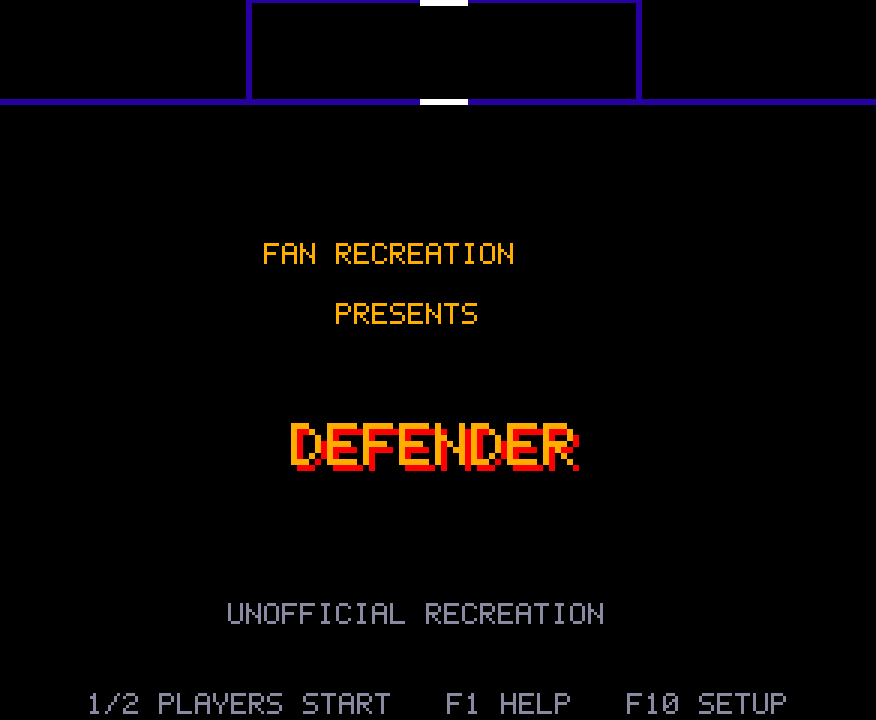
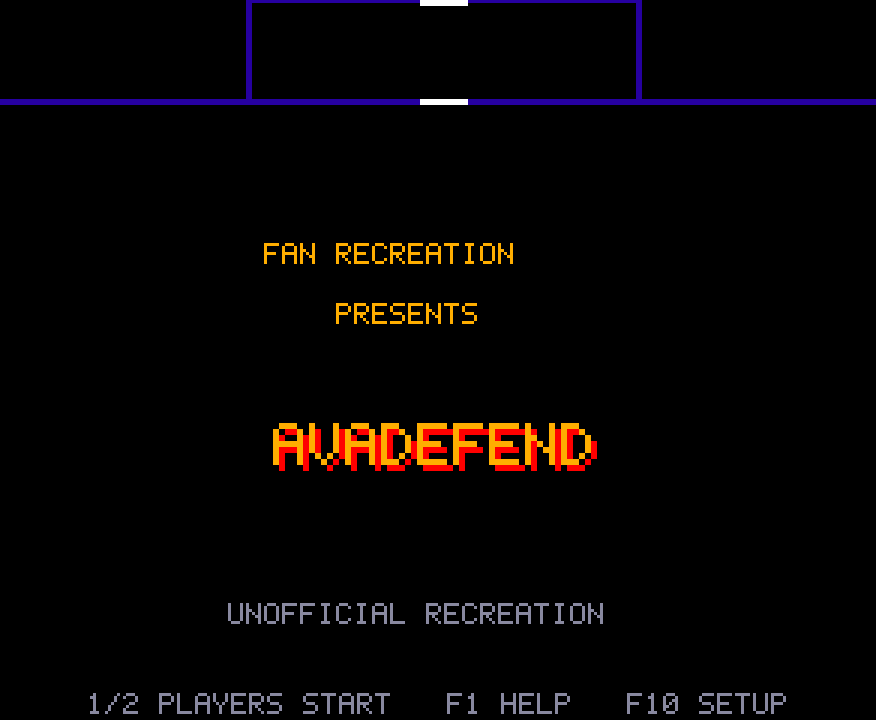
Rename in-game title to AVADEFEND; regenerate screenshots; README heading; record CI self-test results for Windows/macOS/Linux

Changed region(s): [[0.3082, 0.5806, 0.6781, 0.6722]]

diff --git a/src/Defender.Avalonia/Rendering/SoftwareRenderer.cs b/src/Defender.Avalonia/Rendering/SoftwareRenderer.cs
@@ -319,7 +319,7 @@ public sealed class SoftwareRenderer
     private void DrawHallOfFame(FrameSnapshot s)
     {
         uint c1 = s.Mode == GameMode.Modern ? _pal[Pal.White] : _pal[Pal.Laser];   // colour 1 cycles on the arcade
-        DrawSprite(TitleSprite, 96, 56 - 4, 0, _pal[Pal.Yellow]);
+        DrawSprite(TitleSprite, 96, 56 - 4, 0, null, _pal[Pal.Yellow]);   // yellow letters, shadow kept distinct
         Text("HALL OF FAME", 112, 84, c1);
         Text("TODAYS", 68, 104, c1); Text("ALL TIME", 192, 104, c1);
         Text("GREATEST", 60, 114, c1); Text("GREATEST", 190, 114, c1);

diff --git a/src/Defender.Avalonia/Branding.cs b/src/Defender.Avalonia/Branding.cs
@@ -3,7 +3,7 @@ namespace Defender.Avalonia;
 /// <summary>All user-visible naming lives here so it can be replaced. Not an official or endorsed Williams product.</summary>
 public static class Branding
 {
-    public const string Title = "DEFENDER";
-    public const string WindowTitle = "Defender (1981) — unofficial fan recreation";
+    public const string Title = "AVADEFEND";
+    public const string WindowTitle = "AVADefend — unofficial fan recreation of Defender (1981)";
     public const string Disclaimer = "UNOFFICIAL RECREATION";
 }

diff --git a/README.md b/README.md
@@ -1,8 +1,10 @@
-# Defender (1981) — unofficial recreation
+# AVADefend
+
+An unofficial recreation of Williams Electronics' 1981 arcade game *Defender*.
 
 ![Wave 1: the ship fires a spread of lasers at a squad of landers above the mountains, with the scanner showing the whole planet at the top](screenshots/gameplay.png)
 
-This is a recreation of Williams Electronics' 1981 arcade game *Defender*, built with .NET 10, C# and Avalonia. It reproduces the original's mechanics, using the Red Label arcade source code as evidence:
+AVADefend is built with .NET 10, C# and Avalonia. It reproduces the original's mechanics, using the Red Label arcade source code as evidence:
 
 - the five-button controls;
 - momentum physics on a wrap-around planet 2048 pixels wide;
@@ -26,7 +28,7 @@ It has two presets, **Classic** and **Modern**. Both use the same rules. Modern 
 | Losing a ship | End-of-wave humanoid bonus |
 | ![A two-player game: player one's score waiting on the left, player two flying with their score on the right](screenshots/two-players.png) | ![The Hall of Fame with today's and all-time tables side by side](screenshots/hall-of-fame.png) |
 | Two players take turns | Hall of Fame (Today's and All-Time) |
-| ![The title page: our own title graphic under the credit text](screenshots/attract-title.png) | ![The attract demonstration: the ship has caught the falling humanoid for 500 points](screenshots/demo-rescue.png) |
+| ![The title page: the AVADEFEND title graphic under the credit text](screenshots/attract-title.png) | ![The attract demonstration: the ship has caught the falling humanoid for 500 points](screenshots/demo-rescue.png) |
 | Attract mode title page | Attract demo: the rescue |
 | ![The scoring screen: lander, mutant, baiter, bomber, pod and swarmer with their names and points](screenshots/demo-scoring.png) | |
 | Attract demo: the enemies and their points | |
@@ -64,7 +66,7 @@ Unzip or untar and run `Defender` (`Defender.exe` on Windows). The builds are no
 
 - **.NET SDK 10.0.** Verified with 10.0.400 and runtime 10.0.11.
 - **Linux:** an X11 or XWayland session. Every other native library the game needs ships in its NuGet packages: SDL2 (audio and gamepad), Skia and HarfBuzz.
-- **Windows and macOS:** no extra requirements. Note that the game has **not been run** on either (see KNOWN_ISSUES.md).
+- **Windows and macOS:** no extra requirements. The packaged builds pass `--selftest` on Windows x64, macOS Arm64 and Linux x64 in CI; the window, sound and gamepads still need trying by hand there (see KNOWN_ISSUES.md).
 
 ## Build, test, run
 

diff --git a/KNOWN_ISSUES.md b/KNOWN_ISSUES.md
@@ -2,10 +2,9 @@
 
 ## Platform validation
 
-- **Development and testing took place on Linux aarch64 only** (Arch, Hyprland/Wayland, running through XWayland). The brief named Windows as the first validation platform, but no Windows machine was available.
-- **Windows (win-x64):** a self-contained publish **builds**, and the output contains `Defender.exe`, `SDL2.dll` and the Skia and HarfBuzz native libraries. It has **never been run**.
-- **macOS:** the osx-arm64 framework-dependent build **compiles** and bundles its native libraries, but has **never been run**. It is not code-signed or notarised, so Gatekeeper will block it until signed or explicitly allowed.
-- **Linux x64:** not built and not run. The Linux arm64 build (self-contained) was run.
+- **Interactive development and testing took place on Linux aarch64** (Arch, Hyprland/Wayland, running through XWayland). Windows and macOS are covered by CI self-tests only (below).
+- **Windows, macOS, Linux x64 (CI):** every push builds single-file packages for 8 platforms. The Windows x64, macOS Arm64 and Linux x64 packages are started on real machines of each OS with `--selftest`; on the first run (2026-10-07) the engine, renderer, native Skia and saves folder passed on all three, SDL audio opened on macOS, and SDL loaded on Windows and Linux (those CI machines have no sound device). All three produced the identical self-play result (score 4900, wave 2) as this Linux Arm64 machine.
+- **Not yet tried by hand on Windows or macOS:** the game window, real sound output, gamepads, and the Windows menu-key question below. The builds are not code-signed, so macOS Gatekeeper and Windows SmartScreen will warn (see the README).
 - **Windows keyboard (unverified risk):** F10 (Settings) and Alt (a default Fire key) are Windows' menu-activation keys. The app marks them handled, but whether that fully prevents Windows' menu mode (a beep or a stalled key) needs checking on Windows. If it is a problem, rebind Fire away from Alt (Left Ctrl and J also fire by default), and use F9, which also opens Settings.
 - **First run on a new OS:** `Defender --selftest` prints a pass/fail report without opening a window. CI runs it on the packaged Windows, Linux and macOS builds.
 - **Gamepad:** tested against an **SDL virtual controller** (real SDL GameController code path): hot-plug add and remove, default mapping, deadzone and stick steering all pass. **No physical controller was tested**, so vendor-specific mappings, analog feel and the rebinding UI with real hardware are unverified.

diff --git a/MILESTONE_STATUS.md b/MILESTONE_STATUS.md
@@ -86,7 +86,7 @@ Updated 2026-10-07.
 | Item | Status |
 |---|---|
 | All 9 documents | Written |
-| Windows x64 self-contained publish | **Builds**; never run |
+| Windows x64 single-file package | Builds in CI; `--selftest` passes on a Windows machine (window and sound not yet tried by hand) |
 | Linux arm64 self-contained publish | Builds and runs (Observed) |
 | macOS | Not built |
 | Fidelity validation against MAME footage | Not done |
@@ -99,7 +99,7 @@ Updated 2026-10-07.
 | Attract cycle with silent demonstration flight | Impl, Tested, Observed |
 | Gamepad rebinding UI; swap-safe rebinding for keyboard and gamepad | Impl; logic Tested; no hardware test |
 | 2-player alternating play (2 / F3 to start) | Impl, Tested; 2P HUD observed in a headless render |
-| CI workflow for Windows, Linux, macOS | Written and YAML-validated; **never run** (not pushed) |
+| CI workflow for Windows, Linux, macOS | Running on GitHub: build, tests, 8 platform packages, self-test on 3 OSes, `latest` pre-release |
 
 ## Round 3 additions
 
@@ -122,7 +122,7 @@ A line-by-line comparison against the original routines found 18 discrepancies. 
 | Smart bomb vs materialising enemies resolved from source (immune); appear effect now only on screen | Impl, Tested |
 | Wave-bonus screen timing from source (4 frames per humanoid, 128-frame hold, cleared screen); 128-piece death explosion | Impl, Tested |
 | `--export-sounds` WAV export; peak limiter (removed hard clipping in 3 effects); explosion levels raised | Impl, Tested; levels measured, not listened to |
-| macOS osx-arm64 framework-dependent publish | Builds; not run; unsigned |
+| macOS packages (x64, Arm64) | Build in CI; Arm64 `--selftest` passes including SDL audio; unsigned |
 
 ## Round 6
 
